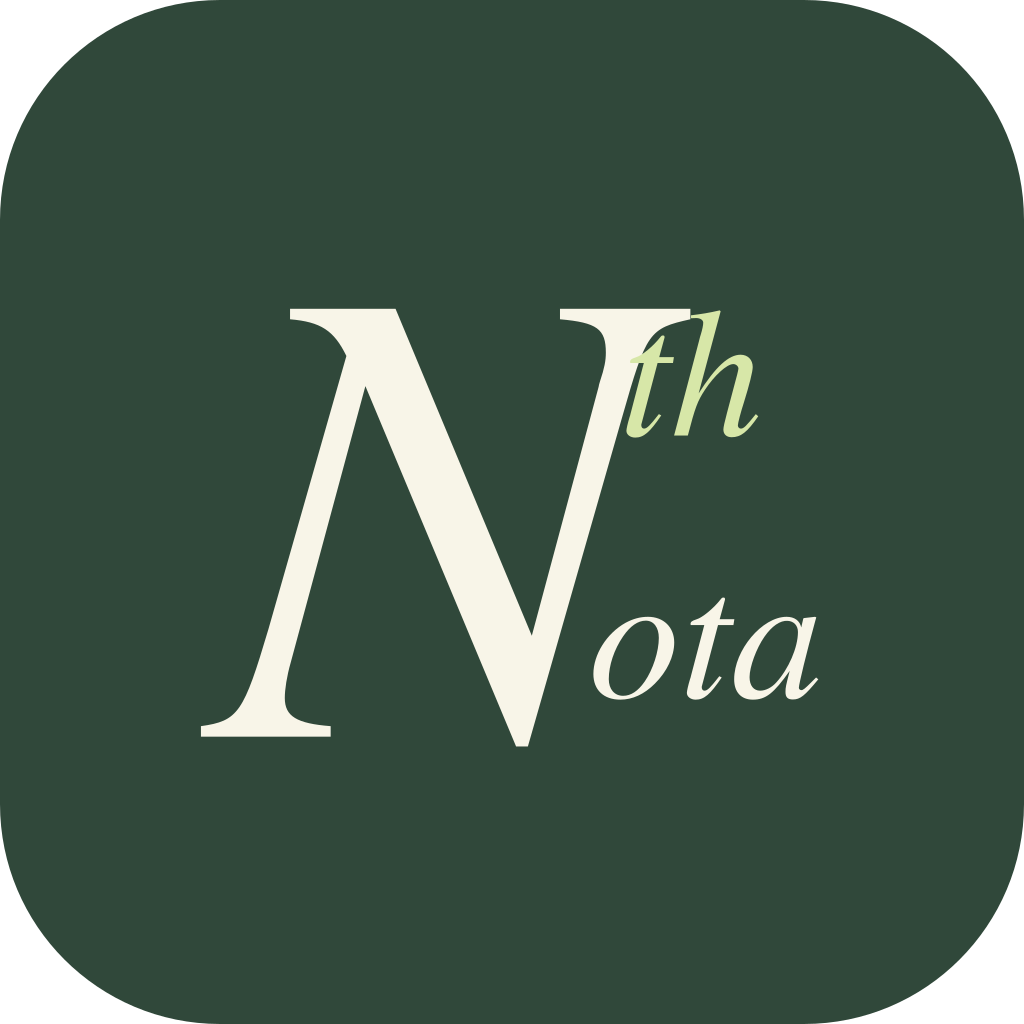
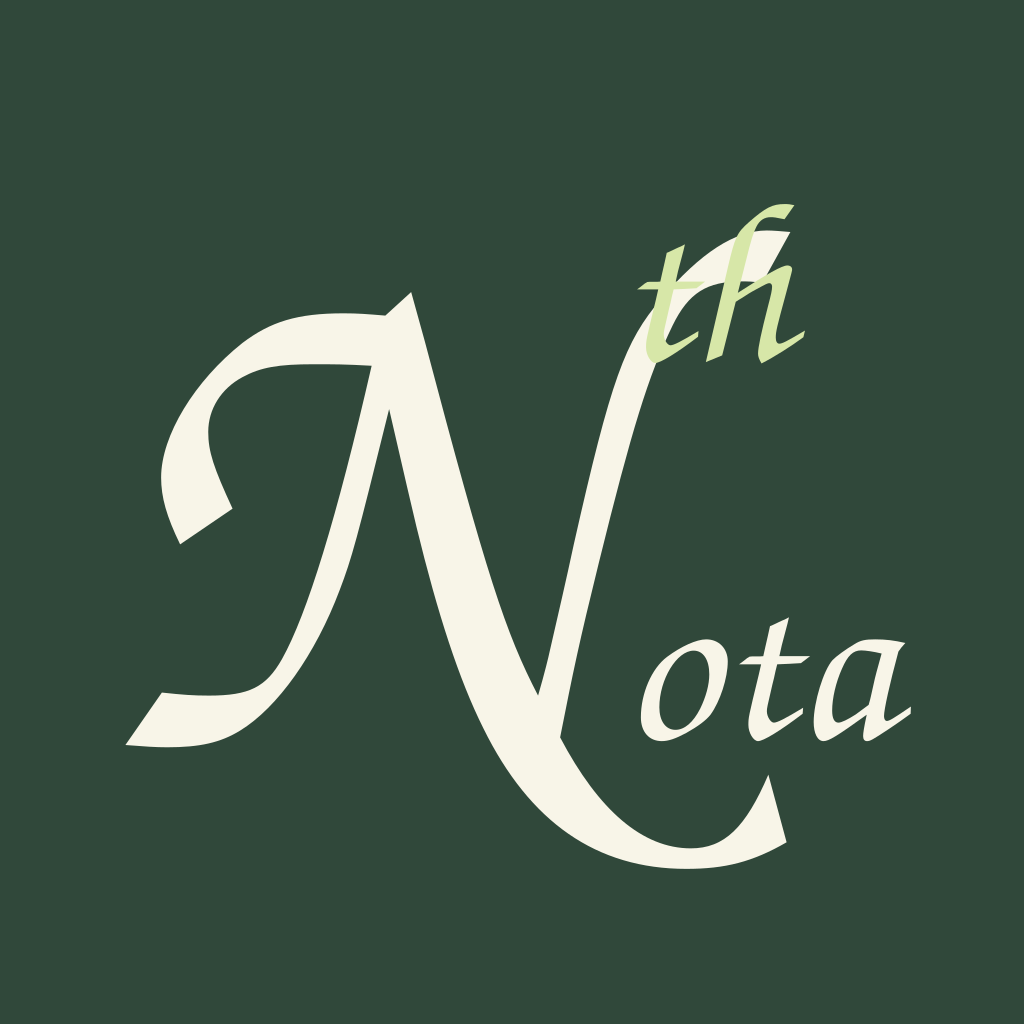
Try cursive shared-N lettering and a square green launcher mark in 0.3.2

diff --git a/dist/style.css b/dist/style.css
@@ -1,3 +1,3 @@
 :root{--bg:#f6f5f0;--paper:#fffefa;--ink:#29352f;--muted:#7c8277;--line:#e6e7de;--accent:#dceab5;--green:#4b634c;--side:#eeefe8;--shadow:0 5px 18px #29352f06;--radius:13px;font-family:Inter,ui-sans-serif,-apple-system,BlinkMacSystemFont,"Segoe UI",sans-serif;color:var(--ink);font-size:14px}*{box-sizing:border-box}body{margin:0;background:var(--bg)}button,input,select,textarea{font:inherit}button{cursor:pointer;border:0;background:none;color:inherit;display:inline-flex;align-items:center;justify-content:center;gap:8px;border-radius:8px;padding:9px 12px;transition:background .15s,transform .15s}button:hover{background:#2736290a}button:active{transform:translateY(1px)}button:disabled{opacity:.45;cursor:not-allowed}input,select,textarea{color:inherit;background:var(--paper);border:1px solid var(--line);border-radius:8px;padding:11px;outline:none}input:focus,textarea:focus,select:focus{border-color:#8d9f7a}button:focus-visible,a:focus-visible{outline:2px solid var(--green);outline-offset:3px}svg{width:18px;height:18px;stroke-width:1.7;flex-shrink:0}a{color:inherit}kbd{font:10px ui-sans-serif,sans-serif;color:#979c90;background:#ffffff80;border-radius:4px;padding:3px 5px}#sidebar{position:fixed;inset:0 auto 0 0;width:224px;background:var(--side);display:flex;flex-direction:column;padding:30px 18px 14px;border-right:1px solid var(--line);z-index:20}.brand{display:flex;align-items:center;gap:11px;text-decoration:none;margin:0 8px 36px;font-weight:650;font-size:23px;letter-spacing:-1px}.brand small{display:block;font-size:8px;letter-spacing:1.9px;color:var(--muted);font-weight:500;margin-top:6px}.brandmark{width:39px;height:43px;border-radius:12px;background:#344738;color:#f1f4e8;display:flex;align-items:center;justify-content:center;font:italic 36px Georgia}.brandmark span{color:#d9e6a7;font:30px Georgia;margin-top:-8px}.quick{background:#dce6bd;font-size:13px;font-weight:600;width:100%;padding:12px 9px}.quick:hover{background:#d1dfaa}.quick kbd{margin-left:auto}.side-label{font-size:9px;letter-spacing:1.6px;color:#8a9083;margin:30px 12px 10px;font-weight:650}.nav{width:100%;justify-content:flex-start;padding:11px 12px;font-size:12px;color:#737c6d;gap:11px;margin:2px 0}.nav svg{width:17px}.nav.active{color:#334935;background:#e1e5d8;font-weight:600}.nav>span:last-child:not(.ws-dot){margin-left:auto;font-size:10px}.spaces-label{display:flex;align-items:center;justify-content:space-between;margin-top:27px}.spaces-label button{padding:0}.spaces-label svg{width:14px;height:14px}.ws-dot{width:8px;height:8px;background:#b1bd8e;border-radius:3px;margin:0 4px}.sidebar-bottom{margin-top:auto;padding-top:30px}.private-note{display:flex;gap:10px;align-items:center;margin:0 10px 15px;color:#6d7b62;font-size:11px}.private-note svg{width:17px}.private-note small{font-size:9px;color:#919887;display:block;margin-top:5px}.sidebar-bottom .nav{font-size:10px}.profile{display:flex;align-items:center;gap:9px;margin-top:20px;padding:17px 6px 0;border-top:1px solid #dde1d5;font-size:11px}.avatar{background:#d8ddcd;border-radius:50%;display:grid;place-items:center;width:32px;height:32px;font:14px Georgia}.profile small{display:block;font-size:9px;color:#929889;margin-top:4px}.profile>svg{margin-left:auto;width:14px;color:#8c967c}.app{margin-left:224px}.topbar{height:77px;border-bottom:1px solid var(--line);padding:0 35px;display:flex;align-items:center;gap:20px;background:#faf9f4}.breadcrumbs{display:flex;align-items:center;gap:11px;font-size:11px;white-space:nowrap}.breadcrumbs>span{color:#92978b}.breadcrumbs svg{width:12px;color:#a3a99c}.breadcrumbs b{font-weight:500}.searchbox{margin:auto;display:flex;align-items:center;gap:9px;background:#eeefe7;padding:0 11px;border-radius:8px;max-width:350px;width:37%}.searchbox svg{color:#939b89;width:15px}.searchbox input{background:none;border:0;padding:10px 0;width:100%;font-size:11px}.top-actions{display:flex;align-items:center;gap:18px;font-size:10px;color:#87907c}.status-dot{display:inline-block;width:5px;height:5px;border-radius:50%;background:#91a771;margin-right:5px}.icon-button{padding:7px}.top-actions svg{width:17px}.mobile-menu{display:none}main{padding:35px 36px 19px;max-width:1900px;margin:auto}.page-heading{display:flex;justify-content:space-between;align-items:center;margin-bottom:31px}.eyebrow{font-size:9px;letter-spacing:2px;color:#949b88;margin-bottom:11px}h1{font:43px Georgia,serif;letter-spacing:-1.8px;margin:0 0 9px;font-weight:400}.title-dot{color:#a6b977}.page-heading p{font-size:11px;color:var(--muted);margin:0}.primary{background:var(--green);color:#fff;padding:12px 17px;font-size:12px}.primary:hover{background:#3d563e}.primary svg{width:16px}.workspace-strip{display:flex;align-items:center;gap:7px;margin-bottom:17px;border-bottom:1px solid var(--line);min-height:44px}#workspace-tabs{display:flex;gap:20px;overflow:auto;max-width:75%}.workspace-tab{border-radius:0;position:relative;padding:12px 2px 16px;gap:8px;font-size:11px;color:#939a8a;white-space:nowrap}.workspace-tab.active{color:#364c36;font-weight:600}.workspace-tab.active:after{content:"";position:absolute;bottom:0;left:0;right:0;background:#6f865d;height:2px}.workspace-tab svg{width:14px}.add-space{padding:6px 10px;color:#9ba390}.add-space svg{width:13px}.switch-hint{font:italic 11px Georgia;color:#a0a58f;margin-left:auto}.desk{border:1px solid #e2e4d9;border-radius:var(--radius);overflow:hidden;background:#f0f1e9;box-shadow:var(--shadow)}.desk-toolbar{height:56px;display:flex;justify-content:space-between;align-items:center;padding:0 13px;background:#fbfbf6;border-bottom:1px solid var(--line);gap:12px}.tools,.view-tools{display:flex;align-items:center;gap:2px}.tools button,.view-tools button{font-size:10px;padding:8px}.tools svg,.view-tools svg{width:15px;height:15px}.divider{height:19px;background:var(--line);width:1px;margin:0 7px}#zoom-value{font-size:9px;color:#849076;min-width:40px}.board-scroll{position:relative;overflow:auto;height:calc(100vh - 420px);min-height:400px;max-height:900px;background-image:radial-gradient(#cdd3c3 .8px,transparent .8px);background-size:19px 19px;overscroll-behavior:contain}#board-extent{position:relative;min-width:100%;min-height:100%}#board{width:1180px;height:830px;transform-origin:top left;position:relative}.card{position:absolute;display:flex;flex-direction:column;border:1px solid #e5e6dd;background:var(--paper);border-radius:10px;box-shadow:0 3px 9px #25352005;overflow:hidden;transition:box-shadow .15s;min-width:240px;min-height:180px}.card:hover{box-shadow:0 6px 18px #2535200c}.card.selected{outline:2px solid #91a274;outline-offset:2px}.card-top{padding:13px 17px 8px;display:flex;align-items:center;gap:7px;cursor:grab;touch-action:none;font-size:8px;font-weight:600;color:#909581;letter-spacing:1.25px;user-select:none}.card-top svg{width:13px;height:13px}.card-top .card-date{margin-left:auto;letter-spacing:0;font-size:8px;font-weight:400}.card-top button{padding:2px}.card-top button svg{width:12px;height:12px}.card-body{padding:6px 20px 15px;overflow:hidden;flex:1;cursor:pointer}.card h2{font:24px Georgia;margin:2px 0 13px;letter-spacing:-.5px;line-height:1.25}.card p{font-size:11px;line-height:1.9;color:#7c8375;margin:0 0 9px}.card .preview-copy{white-space:pre-wrap;font-size:11px;line-height:1.85;color:#75806c;max-height:195px;overflow:hidden}.card-bottom{display:flex;align-items:center;justify-content:space-between;padding:10px 17px;color:#9ca28f;font-size:8px}.card-tag{border-radius:4px;background:#f1f2e9;padding:4px 7px;color:#838d74;font-size:8px}.card .resize-handle{position:absolute;right:0;bottom:0;width:18px;height:18px;cursor:nwse-resize;touch-action:none;opacity:.4}.resize-handle:after{content:"";position:absolute;width:6px;height:6px;border-bottom:1px solid #8d967e;border-right:1px solid #8d967e;bottom:5px;right:5px}.card.sage{background:#e8eddf}.card.sage .card-tag{background:#dae2ce}.card.peach{background:#f3e8db}.card.blue{background:#e6edf0}.card.lilac{background:#ece8ef}.card.sketch-card .card-body{padding:0 10px}.card img.preview-image{width:100%;height:100%;object-fit:contain}.task-line{display:flex;align-items:flex-start;gap:9px;margin:10px 0;font-size:11px;line-height:1.5}.task-line input{accent-color:#69805b;width:13px;height:13px;margin:1px 0;padding:0;flex-shrink:0}.task-line.done span{text-decoration:line-through;color:#a0a692}.task-progress{margin-top:15px;height:3px;background:#d5ddc9;border-radius:9px;overflow:hidden}.task-progress span{display:block;height:100%;background:#839a69}.desk-footer{height:36px;padding:0 15px;display:flex;justify-content:space-between;align-items:center;border-top:1px solid var(--line);background:#f8f9f1;font-size:8px;color:#939c86}.desk-footer>span:nth-child(2){display:flex;gap:6px;align-items:center}.desk-footer svg{width:11px;height:11px}.desk-footer button{font-size:8px;padding:4px}.bottom-row{display:flex;align-items:center;justify-content:space-between;margin-top:19px;color:#9ca38e;font-size:10px}.bottom-row>div{display:flex;gap:9px;align-items:center;font:italic 12px Georgia}.little-spark{font-size:23px;color:#9aab7b}.assistant-launch{background:#e9ecdf;color:#637654;font-size:10px}.assistant-launch svg{width:14px}.preview-tag{font-size:8px;padding:3px 5px;background:#f7f8f1;border-radius:4px;color:#929a85}.list-view #board{display:grid;grid-template-columns:repeat(auto-fill,minmax(260px,1fr));gap:20px;width:100%!important;height:auto!important;padding:25px;transform:none!important}.list-view #board-extent{width:100%!important;height:auto!important}.list-view .card{position:relative!important;left:auto!important;top:auto!important;width:auto!important;height:300px!important}.list-view .card-top{cursor:pointer}.list-view .resize-handle{display:none}.list-view .board-scroll{overflow-x:hidden}.desk.fullscreen{position:fixed;inset:15px;z-index:40}.desk.fullscreen .board-scroll{height:calc(100vh - 125px);max-height:none}.desk.fullscreen .desk-toolbar{height:56px}#empty{position:absolute;inset:60px 20px auto;text-align:center;color:#859075}#empty svg{width:35px;height:35px}#empty h2{font:27px Georgia;color:#53624a}#empty p{font-style:italic;font-size:12px;margin-bottom:25px}#toast{position:fixed;bottom:27px;left:50%;transform:translate(-50%,20px);background:#344637;color:#fbfff6;padding:13px 22px;border-radius:10px;box-shadow:0 5px 35px #0002;opacity:0;pointer-events:none;z-index:150;transition:all .2s;font-size:12px;max-width:90vw}#toast.show{opacity:1;transform:translate(-50%,0)}.backdrop{position:fixed;inset:0;background:#1d2b2460;backdrop-filter:blur(4px);z-index:60;display:flex;justify-content:center;align-items:center;padding:25px}.modal{background:var(--bg);border-radius:17px;box-shadow:0 20px 100px #15221b33;width:650px;max-width:100%;max-height:94vh;display:flex;flex-direction:column;overflow:hidden}.modal.wide{width:1100px}.modal-head{display:flex;align-items:center;justify-content:space-between;border-bottom:1px solid var(--line);padding:15px 22px;gap:10px}.modal-head h2{font:22px Georgia;margin:0}.modal-head>div{display:flex;gap:6px;align-items:center}.modal-body{padding:23px;overflow:auto;min-height:0}.modal-foot{border-top:1px solid var(--line);padding:13px 22px;display:flex;gap:8px;align-items:center;justify-content:flex-end}.secondary{background:#e7eade;font-size:11px}.danger{color:#a45642;font-size:11px}.hint{font-style:italic;font-size:11px;color:var(--muted);line-height:1.7}.field{display:flex;flex-direction:column;gap:7px;font-size:11px;margin-bottom:17px}.field label{font-weight:600}.field input,.field textarea,.field select{width:100%}.field textarea{min-height:100px}.row{display:flex;gap:15px}.row>*{flex:1}.editor-title{font:31px Georgia;background:none;border:0;width:100%;padding:8px 0 15px}.formatbar{display:flex;flex-wrap:wrap;gap:3px;padding:8px 0;border-top:1px solid var(--line);border-bottom:1px solid var(--line);margin-bottom:17px}.formatbar button{padding:6px 9px;font-size:11px}.formatbar svg{width:15px}.editor{min-height:300px;line-height:1.9;font-size:14px;outline:0;overflow-wrap:anywhere}.editor:empty:before{content:attr(data-placeholder);color:#b0b5a6}.editor img{max-width:100%}.editor ul{padding-left:23px}.editor h2{font:25px Georgia}.editor mark{background:#e4ed9d}.editor-note-meta{display:flex;gap:12px;align-items:center;flex-wrap:wrap;margin-top:20px}.editor-note-meta select{font-size:11px}.swatches{display:flex;gap:6px}.swatch{padding:0;width:21px;height:21px;border-radius:50%;background:var(--sw);border:2px solid #fff}.swatch.chosen{outline:1px solid var(--green)}.note-actions{display:flex;gap:5px;flex-wrap:wrap;margin-top:15px}.note-actions button{font-size:10px}.task-editor-row{display:flex;gap:7px;align-items:center;margin:9px 0}.task-editor-row input[type=text]{flex:1;min-width:0}.task-editor-row input[type=checkbox]{accent-color:var(--green)}.task-editor-row button{padding:5px}.ink-tools{display:flex;align-items:center;gap:6px;flex-wrap:wrap;margin-bottom:15px}.ink-tools button{font-size:11px}.ink-tools button.active{background:#dce6c7}.ink-tools input[type=color]{padding:0;border:0;width:27px;height:27px}.ink-tools input[type=range]{padding:0;width:80px}.canvas-wrap{overflow:auto;background:#e8e9e1;border-radius:8px;text-align:center;padding:10px;max-height:60vh}.draw-canvas{background:white;max-width:100%;height:auto;touch-action:none;display:block;margin:auto;box-shadow:0 1px 10px #0001}.paper-lines{background-image:repeating-linear-gradient(transparent,transparent 31px,#dce4d1 32px)!important}.draw-pages{display:flex;align-items:center;gap:12px;justify-content:center;margin-bottom:12px;font-size:12px}.compare-grid{display:grid;grid-template-columns:1fr 1fr;gap:20px}.compare-pane{padding:20px;border:1px solid var(--line);border-radius:10px;background:var(--paper);min-height:300px;overflow-wrap:anywhere}.compare-pane h3{font:25px Georgia}.compare-pane .copy{white-space:pre-wrap;line-height:1.8;font-size:13px}.compare-pane img{max-width:100%}.setting-row{display:flex;gap:15px;justify-content:space-between;align-items:center;padding:17px 0;border-bottom:1px solid var(--line);font-size:12px}.setting-row small{display:block;margin-top:7px;line-height:1.6;font-size:10px;color:var(--muted)}.feature-status{border-radius:6px;padding:5px 7px;background:#e4ead9;color:#6c815b;font-size:9px;white-space:nowrap}.feature-status.pending{background:#eee5d6;color:#9b8052}.assistant-intro{background:#e9eedf;border-radius:11px;padding:20px;margin-bottom:20px}.assistant-intro h3{font:24px Georgia;margin:0 0 9px}.assistant-intro p{font-size:12px;line-height:1.7;color:#7a876b}.assistant-options{display:grid;grid-template-columns:1fr 1fr;gap:10px}.assistant-option{padding:17px;background:var(--paper);justify-content:flex-start;align-items:flex-start;text-align:left}.assistant-option>span{display:flex;flex-direction:column;gap:7px}.assistant-option strong{font-size:12px;font-weight:500}.assistant-option small{font-size:10px;color:var(--muted);line-height:1.6}.assistant-option svg{color:#879a6b}.assistant-result{margin-top:18px;padding:15px;background:var(--paper);border-radius:9px;font-size:12px;line-height:1.8;white-space:pre-wrap}.voice-status{text-align:center;padding:25px}.record-icon{width:80px;height:80px;border-radius:50%;display:grid;place-items:center;background:#e5eadb;margin:0 auto 20px}.record-icon svg{width:30px;height:30px}.record-icon.recording{background:#f0d9ce;animation:pulse 1.5s infinite}.record-time{font:35px Georgia;margin-bottom:16px}.drop-overlay{position:fixed;inset:15px;background:#eef3e9ee;border:2px dashed #7f9866;border-radius:20px;display:grid;place-items:center;font:30px Georgia;z-index:90;pointer-events:none}.badge-note{display:inline-flex;align-items:center;gap:5px;font-size:9px;color:#82916f}.file-preview{max-width:100%;max-height:55vh;object-fit:contain}.reminder-summary{font-size:10px;color:#879377}.dark{--bg:#202a24;--paper:#2b362d;--ink:#e1e6d6;--muted:#a1ad96;--line:#3b463b;--side:#263027;--accent:#526640}.dark .topbar,.dark .desk-toolbar,.dark .desk-footer{background:#283329}.dark .searchbox,.dark .assistant-launch,.dark .quick,.dark .secondary{background:#3c4c34;color:#d5dfc4}.dark .desk,.dark .board-scroll{background-color:#253026}.dark .card.sage{background:#34432e}.dark .card.peach{background:#443c2c}.dark .card.blue{background:#2c3d40}.dark .card.lilac{background:#3e3441}.dark .card-tag,.dark .assistant-intro{background:#3c4934}.dark .nav.active{background:#3b4933;color:#e0eacb}.dark .card .preview-copy,.dark .card p{color:#b0bba6}@keyframes pulse{50%{box-shadow:0 0 0 12px #f0d9ce40}}@media(min-width:1600px){main{padding-top:45px}.board-scroll{height:calc(100vh - 450px)}}@media(max-width:1150px){#sidebar{width:196px;padding-left:13px;padding-right:13px}.app{margin-left:196px}.topbar{padding:0 24px}.top-actions #save-state{font-size:0}.top-actions .status-dot{width:6px;height:6px}.switch-hint{display:none}main{padding:28px 24px 18px}.tools button,.view-tools button{padding:7px}.view-tools button span{display:none}}@media(max-width:800px){#sidebar{transform:translateX(-100%);transition:transform .2s;width:224px;box-shadow:5px 0 30px #0002}#sidebar.open{transform:translateX(0)}.app{margin-left:0}.mobile-menu{display:inline-flex}.topbar{height:62px;padding:0 15px;gap:10px}.breadcrumbs{gap:6px}.breadcrumbs>span,.breadcrumbs>svg{display:none}.breadcrumbs .mobile-menu svg{width:19px;height:19px}.searchbox{width:auto;flex:1;max-width:340px;margin-left:auto}.searchbox input{font-size:11px}.searchbox kbd{display:none}.top-actions{gap:0}.top-actions .icon-button{display:none}main{padding:24px 15px 17px}.page-heading{margin-bottom:20px}.page-heading h1{font-size:36px}.eyebrow{font-size:8px}.page-heading p{font-size:10px;line-height:1.6;max-width:240px}.page-heading .primary{padding:11px 13px;font-size:10px;white-space:nowrap}.workspace-strip{margin-bottom:12px}#workspace-tabs{gap:19px;max-width:85%}.desk-toolbar{padding:0 6px;height:auto;min-height:53px;flex-wrap:wrap;gap:0}.tools{flex:1;justify-content:space-between}.tools button{padding:10px 7px;flex-direction:column;gap:4px;font-size:8px}.tools .divider{margin:0 3px}.view-tools{border-top:1px solid var(--line);width:100%;justify-content:flex-end;padding:3px 0}.view-tools button{font-size:9px}.view-tools button:first-child{margin-right:auto}.view-tools button span{display:inline}.board-scroll{height:calc(100dvh - 401px);min-height:360px}.desk-footer{font-size:8px;padding:0 9px}.desk-footer>span:nth-child(2){display:none}.bottom-row{gap:10px;margin-top:12px}.bottom-row>div{font-size:10px}.assistant-launch{font-size:9px;padding:10px}.assistant-launch .preview-tag,.assistant-launch svg:last-child{display:none}.backdrop{padding:9px}.modal{max-height:96dvh;border-radius:13px}.modal-body{padding:17px}.modal-head{padding:13px 17px}.modal-head h2{font-size:20px}.modal-foot{padding:11px 15px;flex-wrap:wrap}.modal-foot button{font-size:10px}.compare-grid{grid-template-columns:1fr 1fr;gap:8px}.compare-pane{padding:12px}.compare-pane h3{font-size:21px}.compare-pane .copy{font-size:11px}.row{gap:9px}.editor{min-height:260px}.assistant-options{grid-template-columns:1fr}.desktop-label{display:none}.list-view #board{padding:15px;gap:15px}.desk.fullscreen{inset:5px}.desk.fullscreen .board-scroll{height:calc(100dvh - 155px)}.sidebar-bottom{padding-top:15px}}@media(prefers-reduced-motion:reduce){*{animation:none!important;transition:none!important}}
 .trash-row{display:flex;align-items:center;gap:8px;padding:14px 0;border-bottom:1px solid var(--line)}.trash-row>span{flex:1;min-width:0}.trash-row strong,.history-entry strong{font-size:12px;font-weight:500;overflow-wrap:anywhere}.trash-row small,.history-entry small{display:block;color:var(--muted);font-size:10px;margin-top:6px}.history-entry{padding:17px 0;border-bottom:1px solid var(--line)}.history-copy{font-size:12px;white-space:pre-wrap;line-height:1.7;color:var(--muted);margin:15px 0;max-height:160px;overflow:auto}.topbar{padding-top:env(safe-area-inset-top)}.dark .secondary{color:var(--ink)}
-.brand-icon{width:43px;height:43px;border-radius:11px}.ai-task-tabs{display:flex;gap:6px;flex-wrap:wrap;margin-bottom:15px}.ai-task-tabs .active{background:#536d49;color:white}.ai-context{font-size:11px;line-height:1.7;color:var(--muted);background:var(--paper);padding:12px 15px;border-radius:9px;margin-bottom:15px}.ai-context summary{cursor:pointer;color:var(--ink)}.ai-context>div{white-space:pre-wrap;max-height:150px;overflow:auto;margin-top:12px}.ai-conversation{max-height:310px;overflow:auto;display:flex;flex-direction:column;gap:12px;margin:12px 0 18px}.ai-message{padding:15px;border-radius:10px;background:var(--paper);max-width:95%;line-height:1.75;font-size:12px;overflow-wrap:anywhere}.ai-message.user{align-self:flex-end;background:#e7ecde}.dark .ai-message.user{background:#3b4c34}.ai-message>span{display:block;font-size:9px;color:var(--muted);margin-bottom:7px}.ai-message>div{white-space:pre-wrap}.ai-send-row,.ai-reply-actions{display:flex;flex-wrap:wrap;gap:8px;justify-content:flex-end;margin:10px 0}.ai-reply-actions[hidden]{display:none}#ai-message{min-height:90px;resize:vertical}
+.brand-icon{width:43px;height:43px;border-radius:0}.ai-task-tabs{display:flex;gap:6px;flex-wrap:wrap;margin-bottom:15px}.ai-task-tabs .active{background:#536d49;color:white}.ai-context{font-size:11px;line-height:1.7;color:var(--muted);background:var(--paper);padding:12px 15px;border-radius:9px;margin-bottom:15px}.ai-context summary{cursor:pointer;color:var(--ink)}.ai-context>div{white-space:pre-wrap;max-height:150px;overflow:auto;margin-top:12px}.ai-conversation{max-height:310px;overflow:auto;display:flex;flex-direction:column;gap:12px;margin:12px 0 18px}.ai-message{padding:15px;border-radius:10px;background:var(--paper);max-width:95%;line-height:1.75;font-size:12px;overflow-wrap:anywhere}.ai-message.user{align-self:flex-end;background:#e7ecde}.dark .ai-message.user{background:#3b4c34}.ai-message>span{display:block;font-size:9px;color:var(--muted);margin-bottom:7px}.ai-message>div{white-space:pre-wrap}.ai-send-row,.ai-reply-actions{display:flex;flex-wrap:wrap;gap:8px;justify-content:flex-end;margin:10px 0}.ai-reply-actions[hidden]{display:none}#ai-message{min-height:90px;resize:vertical}

diff --git a/dist/app.js b/dist/app.js
@@ -37,7 +37,7 @@ function checkReminders(){if(NotaPlatform.isAndroid)return;for(const n of state.
 function readBack(text){if(NotaPlatform.read(text,state.settings.rate||1)){toast('Reading with an installed offline voice.');return;}if(!('speechSynthesis'in window)){toast('Readback is not available in this browser.');return;}speechSynthesis.cancel();const u=new SpeechSynthesisUtterance(text);u.rate=state.settings.rate||1;speechSynthesis.speak(u);toast('Reading aloud. Use Stop readback in Settings to stop.');}
 async function download(data,name,mime){if(NotaPlatform.isAndroid){try{let payload;if(data instanceof Blob)payload=data;else if(typeof data==='string'&&data.startsWith('data:'))payload=await(await fetch(data)).blob();else payload=new Blob([data],{type:mime||'text/plain'});await NotaPlatform.exportBlob(payload,name);toast('Choose where to save your file.');}catch(e){toast(e.message||'Could not save this file.');}return;}const blob=data instanceof Blob?data:typeof data==='string'&&data.startsWith('data:')?data:null;const url=blob instanceof Blob?URL.createObjectURL(blob):blob||URL.createObjectURL(new Blob([data],{type:mime||'text/plain'}));const a=document.createElement('a');a.href=url;a.download=name.replace(/[<>:"/\\|?*]/g,'-');a.click();if(!url.startsWith('data:'))setTimeout(()=>URL.revokeObjectURL(url),3000);}
 function backupModal(){modal('Keep a copy of your desk',`<div class="assistant-intro"><h3>Your thoughts are yours.</h3><p>A backup includes every workspace, note, drawing, attachment, and reminder. Keep a copy somewhere safe.</p></div><div class="setting-row"><span>${state.workspaces.length} workspaces · ${state.items.length} items<small>Stored in this browser on this device. Clearing browser data removes this copy.</small></span><i data-lucide="hard-drive"></i></div><p class="hint">Restoring replaces this device’s current desk after confirmation. Backups contain your notes and attachments in readable form; store them privately.</p>`,`<button class="secondary" id="restore-backup"><i data-lucide="upload"></i> Restore a backup</button><button class="primary" id="save-backup"><i data-lucide="download"></i> Download backup</button>`);$('#save-backup').onclick=()=>{download(JSON.stringify(state),`Nth-Nota-Backup-${new Date().toISOString().slice(0,10)}.json`,'application/json');toast('Backup download started.');};$('#restore-backup').onclick=()=>$('#restore-input').click();}
-function settingsModal(){modal('Your desk, your way',`<div class="setting-row"><span>Dark paper<small>A quieter desk for evening thoughts.</small></span><input id="dark-setting" type="checkbox" aria-label="Dark theme" ${state.settings.dark?'checked':''}></div><div class="setting-row"><span>Automatic math<small>Finish numeric equations when you type = in a note.</small></span><input id="math-setting" type="checkbox" aria-label="Automatic math" ${state.settings.math?'checked':''}></div><div class="setting-row"><span>Readback speed</span><select id="read-speed" aria-label="Readback speed">${[.75,1,1.25,1.5,2].map(s=>`<option value="${s}" ${s===(state.settings.rate||1)?'selected':''}>${s}×</option>`).join('')}</select><button id="stop-read" class="secondary">Stop readback</button></div><div class="setting-row"><span>AI · free services only<small>Local AI connects automatically on supported Android phones. Free cloud assistance is available in the connected Android build after you allow it below. No model selection or paid fallback.</small></span><span class="feature-status">${NotaPlatform.hasLocalAI?'Local AI connected':'Android required'}</span></div><div class="setting-row"><span>Allow free cloud assistance<small>${NotaPlatform.cloudState().configured?'If local AI is unavailable, send your request, selected note context, and recent conversation to our Cloudflare gateway and, if connected by the owner, Groq. Local AI is tried first. Provider data policies apply.':'The owner’s free gateway is not activated in this build yet. Local AI can work independently.'}</small></span><input id="cloud-setting" type="checkbox" aria-label="Allow cloud assistance" ${NotaPlatform.cloudState().allowed?'checked':''} ${NotaPlatform.cloudState().configured?'':'disabled'}></div><div class="setting-row"><span>Working in this prototype<small>Notes, tasks, movable cards, sketch / handwriting / ink, image editing and markup, PDF markup, DOCX/TXT/Markdown import, exports, voice recording, browser readback, search and backups.</small></span><span class="feature-status">Try it</span></div><div class="setting-row"><span>Needs the native Android build<small>Local AI quality, handwriting-to-text, notifications and background audio need device testing. Cross-device sync is a later milestone.</small></span><span class="feature-status pending">In development</span></div><p class="hint">Nth Nota 0.3.1 · An Nth Experience. Handwriting mode captures your real pen strokes; it does not convert cursive into typed text yet. Voice and readback depend on browser and device support.</p>`);$('#cloud-setting').onchange=e=>{NotaPlatform.allowCloud(e.target.checked);};$('#dark-setting').onchange=e=>{state.settings.dark=e.target.checked;document.body.classList.toggle('dark',e.target.checked);save();};$('#math-setting').onchange=e=>{state.settings.math=e.target.checked;save();};$('#read-speed').onchange=e=>{state.settings.rate=Number(e.target.value);save();};$('#stop-read').onclick=()=>NotaPlatform.stopRead();}
+function settingsModal(){modal('Your desk, your way',`<div class="setting-row"><span>Dark paper<small>A quieter desk for evening thoughts.</small></span><input id="dark-setting" type="checkbox" aria-label="Dark theme" ${state.settings.dark?'checked':''}></div><div class="setting-row"><span>Automatic math<small>Finish numeric equations when you type = in a note.</small></span><input id="math-setting" type="checkbox" aria-label="Automatic math" ${state.settings.math?'checked':''}></div><div class="setting-row"><span>Readback speed</span><select id="read-speed" aria-label="Readback speed">${[.75,1,1.25,1.5,2].map(s=>`<option value="${s}" ${s===(state.settings.rate||1)?'selected':''}>${s}×</option>`).join('')}</select><button id="stop-read" class="secondary">Stop readback</button></div><div class="setting-row"><span>AI · free services only<small>Local AI connects automatically on supported Android phones. Free cloud assistance is available in the connected Android build after you allow it below. No model selection or paid fallback.</small></span><span class="feature-status">${NotaPlatform.hasLocalAI?'Local AI connected':'Android required'}</span></div><div class="setting-row"><span>Allow free cloud assistance<small>${NotaPlatform.cloudState().configured?'If local AI is unavailable, send your request, selected note context, and recent conversation to our Cloudflare gateway and, if connected by the owner, Groq. Local AI is tried first. Provider data policies apply.':'The owner’s free gateway is not activated in this build yet. Local AI can work independently.'}</small></span><input id="cloud-setting" type="checkbox" aria-label="Allow cloud assistance" ${NotaPlatform.cloudState().allowed?'checked':''} ${NotaPlatform.cloudState().configured?'':'disabled'}></div><div class="setting-row"><span>Working in this prototype<small>Notes, tasks, movable cards, sketch / handwriting / ink, image editing and markup, PDF markup, DOCX/TXT/Markdown import, exports, voice recording, browser readback, search and backups.</small></span><span class="feature-status">Try it</span></div><div class="setting-row"><span>Needs the native Android build<small>Local AI quality, handwriting-to-text, notifications and background audio need device testing. Cross-device sync is a later milestone.</small></span><span class="feature-status pending">In development</span></div><p class="hint">Nth Nota 0.3.2 · An Nth Experience. Handwriting mode captures your real pen strokes; it does not convert cursive into typed text yet. Voice and readback depend on browser and device support.</p>`);$('#cloud-setting').onchange=e=>{NotaPlatform.allowCloud(e.target.checked);};$('#dark-setting').onchange=e=>{state.settings.dark=e.target.checked;document.body.classList.toggle('dark',e.target.checked);save();};$('#math-setting').onchange=e=>{state.settings.math=e.target.checked;save();};$('#read-speed').onchange=e=>{state.settings.rate=Number(e.target.value);save();};$('#stop-read').onclick=()=>NotaPlatform.stopRead();}
 function assistant(n,excerpt=''){
 const context=excerpt.trim()||(n?plain(n.html||''):''),key=n?.id||state.active;
 state.assistantConversations=state.assistantConversations||{};let conversation=structuredClone(state.assistantConversations[key]||[]),task=context?'proofread':'brainstorm',controller=null,lastReply='',lastTask=task;

diff --git a/dist/sw.js b/dist/sw.js
@@ -1,5 +1,5 @@
 'use strict';
-const VERSION='nth-nota-shell-0.3.1';
+const VERSION='nth-nota-shell-0.3.2';
 const FILES=['./','./index.html','./style.css','./app.js','./core.js','./desk-store.js','./ai-prompts.js','./ai-router.js','./platform.js','./manifest.webmanifest','./icon-192.png','./icon-512.png','./vendor/lucide.js','./vendor/jszip.js','./vendor/docx.js','./vendor/pdf-lib.js','./vendor/pdf.mjs','./vendor/pdf.worker.min.mjs'];
 self.addEventListener('install',e=>e.waitUntil((async()=>{const cache=await caches.open(VERSION);await cache.addAll(FILES);})()));
 self.addEventListener('activate',e=>e.waitUntil((async()=>{for(const key of await caches.keys())if(key.startsWith('nth-nota-shell-')&&key!==VERSION)await caches.delete(key);await self.clients.claim();})()));

diff --git a/tools/generate-icon.py b/tools/generate-icon.py
@@ -1,12 +1,14 @@
-"""Outlined shared-N monogram. Rebuild with fonttools, Node sharp and Nimbus Roman Italic."""
+"""Cursive shared-N monogram. Rebuild with fonttools, Node sharp and URW Z003."""
 from pathlib import Path
 from fontTools.ttLib import TTFont
 from fontTools.pens.svgPathPen import SVGPathPen
 from fontTools.pens.transformPen import TransformPen
 import subprocess
+
 def png(svg,path,size):
  subprocess.run(['node','-e',"const sharp=require('sharp');let a=[];process.stdin.on('data',x=>a.push(x));process.stdin.on('end',()=>sharp(Buffer.concat(a)).resize(Number(process.argv[2])).png().toFile(process.argv[1]).catch(e=>{console.error(e);process.exit(1)}));",path,str(size)],input=svg.encode(),check=True)
-font=TTFont('/usr/share/fonts/opentype/urw-base35/NimbusRoman-Italic.otf')
+
+font=TTFont('/usr/share/fonts/opentype/urw-base35/Z003-MediumItalic.otf')
 glyphs=font.getGlyphSet();cmap=font.getBestCmap();units=font['head'].unitsPerEm
 parts=[]
 def text(value,x,y,size,color):
@@ -14,24 +16,51 @@ def text(value,x,y,size,color):
   glyph=glyphs[cmap[ord(letter)]];pen=SVGPathPen(glyphs);scale=size/units
   glyph.draw(TransformPen(pen,(scale,0,0,-scale,x,y)))
   parts.append((pen.getCommands(),color));x+=glyph.width*scale
-text('N',130,800,840,'#f8f5e8')
-text('th',650,414,235,'#d7e7a8')
-text('ota',610,750,235,'#f8f5e8')
-# Keep the complete shared-letter mark inside an adaptive icon's safe area.
-body='<g transform="translate(112.64 112.64) scale(.78)">'+''.join(f'<path d="{d}" fill="{color}"/>' for d,color in parts)+'</g>'
-svg='<svg xmlns="http://www.w3.org/2000/svg" width="1024" height="1024" viewBox="0 0 1024 1024"><rect width="1024" height="1024" rx="220" fill="#30483a"/>'+body+'</svg>'
+
+text('N',95,745,760,'#f8f5e8')
+text('th',615,360,230,'#d7e7a8')
+text('ota',620,738,240,'#f8f5e8')
+body=''.join(f'<path d="{d}" fill="{color}"/>' for d,color in parts)
+square='<path d="M0 0H1024V1024H0Z" fill="#30483a"/>'
+def svg_wrap(content,view='0 0 1024 1024'):
+ return '<svg xmlns="http://www.w3.org/2000/svg" width="1024" height="1024" viewBox="'+view+'">'+content+'</svg>'
+svg=svg_wrap(square+body)
 Path('artwork/shared-n.svg').write_text(svg)
 for size in (192,512):png(svg,f'dist/icon-{size}.png',size)
 png(svg,'artwork/Nth-Nota-icon.png',1024)
 for density,size in [('mdpi',48),('hdpi',72),('xhdpi',96),('xxhdpi',144),('xxxhdpi',192)]:
  folder=Path('android/app/src/main/res')/('mipmap-'+density);folder.mkdir(exist_ok=True)
  png(svg,str(folder/'ic_launcher.png'),size)
-paths=''.join(f'<path android:pathData="{d}" android:fillColor="{color}"/>' for d,color in parts)
-vector='<vector xmlns:android="http://schemas.android.com/apk/res/android" android:width="108dp" android:height="108dp" android:viewportWidth="1024" android:viewportHeight="1024"><group android:translateX="112.64" android:translateY="112.64" android:scaleX=".78" android:scaleY=".78">'+paths+'</group></vector>'
-Path('android/app/src/main/res/drawable/ic_launcher_foreground.xml').write_text(vector)
-mono=vector.replace('#d7e7a8','#ffffff').replace('#f8f5e8','#ffffff')
+
+# Android controls the outer adaptive mask. Fit an actual square inside its
+# smallest circular visible region (72/108 of the full foreground viewport).
+origin=276;scale=472/1024
+paths='<path android:pathData="M0 0H1024V1024H0Z" android:fillColor="#30483a"/>'+''.join(f'<path android:pathData="{d}" android:fillColor="{color}"/>' for d,color in parts)
+head='<vector xmlns:android="http://schemas.android.com/apk/res/android" android:width="108dp" android:height="108dp" android:viewportWidth="1024" android:viewportHeight="1024">'
+group=f'<group android:translateX="{origin}" android:translateY="{origin}" android:scaleX="{scale}" android:scaleY="{scale}">'
+Path('android/app/src/main/res/drawable/ic_launcher_foreground.xml').write_text(head+group+paths+'</group></vector>')
+mono_path='M0 0H1024V1024H0Z '+' '.join(d for d,color in parts)
+mono=head+group+f'<path android:pathData="{mono_path}" android:fillColor="#ffffff" android:fillType="evenOdd"/></group></vector>'
 Path('android/app/src/main/res/drawable/ic_launcher_monochrome.xml').write_text(mono)
 for folder,extra in [('mipmap-anydpi-v26',''),('mipmap-anydpi-v33','<monochrome android:drawable="@drawable/ic_launcher_monochrome"/>')]:
  Path('android/app/src/main/res/'+folder+'/ic_launcher.xml').write_text('<adaptive-icon xmlns:android="http://schemas.android.com/apk/res/android"><background android:drawable="@color/icon_background"/><foreground android:drawable="@drawable/ic_launcher_foreground"/>'+extra+'</adaptive-icon>')
-Path('android/app/src/main/res/values/icon_colors.xml').write_text('<resources><color name="icon_background">#30483a</color></resources>')
-print('Created shared-N vector, web icons, and Android adaptive/themed icons.')
+Path('android/app/src/main/res/values/icon_colors.xml').write_text('<resources><color name="icon_background">#f6f5f0</color></resources>')
+
+# Code-native previews approximate Android's circular launcher mask.
+clip='<defs><clipPath id="mask"><circle cx="512" cy="512" r="341.333333"/></clipPath></defs>'
+new_inner=f'<g transform="translate({origin} {origin}) scale({scale})">'+square+body+'</g>'
+new_preview=svg_wrap(clip+'<g clip-path="url(#mask)"><rect width="1024" height="1024" fill="#f6f5f0"/>'+new_inner+'</g>','170.666667 170.666667 682.666666 682.666666')
+png(new_preview,'artwork/icon-options/new-launcher-preview.png',512)
+old=Path('artwork/icon-options/old-italic.svg').read_text()
+old_body=old.split('>',1)[1].rsplit('</svg>',1)[0]
+old_preview=svg_wrap(clip+'<g clip-path="url(#mask)">'+old_body+'</g>','170.666667 170.666667 682.666666 682.666666')
+# Unique mask IDs keep the two embedded SVGs independent in the comparison.
+old_preview=old_preview.replace('id="mask"','id="old-mask"').replace('url(#mask)','url(#old-mask)')
+compare='<svg xmlns="http://www.w3.org/2000/svg" width="1000" height="620" viewBox="0 0 1000 620"><rect width="1000" height="620" fill="#ecebe4"/>'
+for source,x,label in [(old_preview,80,'Current · italic'),(new_preview,560,'New · cursive square')]:
+ source=source.replace('width="1024" height="1024" viewBox','width="360" height="360" viewBox',1)
+ compare+=f'<g transform="translate({x} 100)">'+source+f'<text x="180" y="420" text-anchor="middle" font-family="sans-serif" font-size="26" fill="#30483a">{label}</text></g>'
+compare+='</svg>'
+Path('artwork/icon-options/comparison.svg').write_text(compare)
+png(compare,'artwork/icon-options/comparison.png',1000)
+print('Created cursive square mark, adaptive/themed assets, and comparison preview.')

diff --git a/README.md b/README.md
@@ -1,4 +1,4 @@
-# Nth Nota 0.3.1
+# Nth Nota 0.3.2
 
 An Nth Experience app for notes, sketches, tasks and ideas. Includes the offline browser editor and Android preview project. No paid AI service or client-side cloud key is configured. The Android preview connects to the owner’s free gateway after explicit user opt-in.
 
@@ -82,3 +82,10 @@ Version 0.3.0 built in [GitHub Actions](https://github.com/bdredenbach/Nth-Nota/
 ## Verified 0.3.1 Android preview
 
 The [0.3.1 workflow](https://github.com/bdredenbach/Nth-Nota/actions/runs/39245154789) completed successfully. All 38 checks passed; the APK v2 signature and all 23 bundled editor assets verified. Native bytecode contains the expected gateway URL. The signing certificate matches 0.3.0, so those two previews are compatible for normal in-place updates. See [verification record](docs/android-build-verification-0.3.1.json). The owner’s dashboard test proved live cloud proofreading; native in-app cloud and local inference still await phone testing.
+
+## Added in 0.3.2
+
+- All letters in the shared-N mark now use URW Z003 calligraphic cursive outlines. No font binary is embedded.
+- The green icon plate is a square. Android still chooses the outer launcher mask; an inset square on paper keeps the green plate visibly square inside circular launchers. The themed icon uses a square with the script lettering cut out.
+- The previous italic mark is preserved in `artwork/icon-options/old-italic.svg` and `.png`. A code-rendered launcher comparison is in `artwork/icon-options/comparison.png`.
+- The writing assistant and verified free gateway configuration carry forward from 0.3.1. In-app phone testing and the daily cleanup schedule remain pending owner confirmation.
